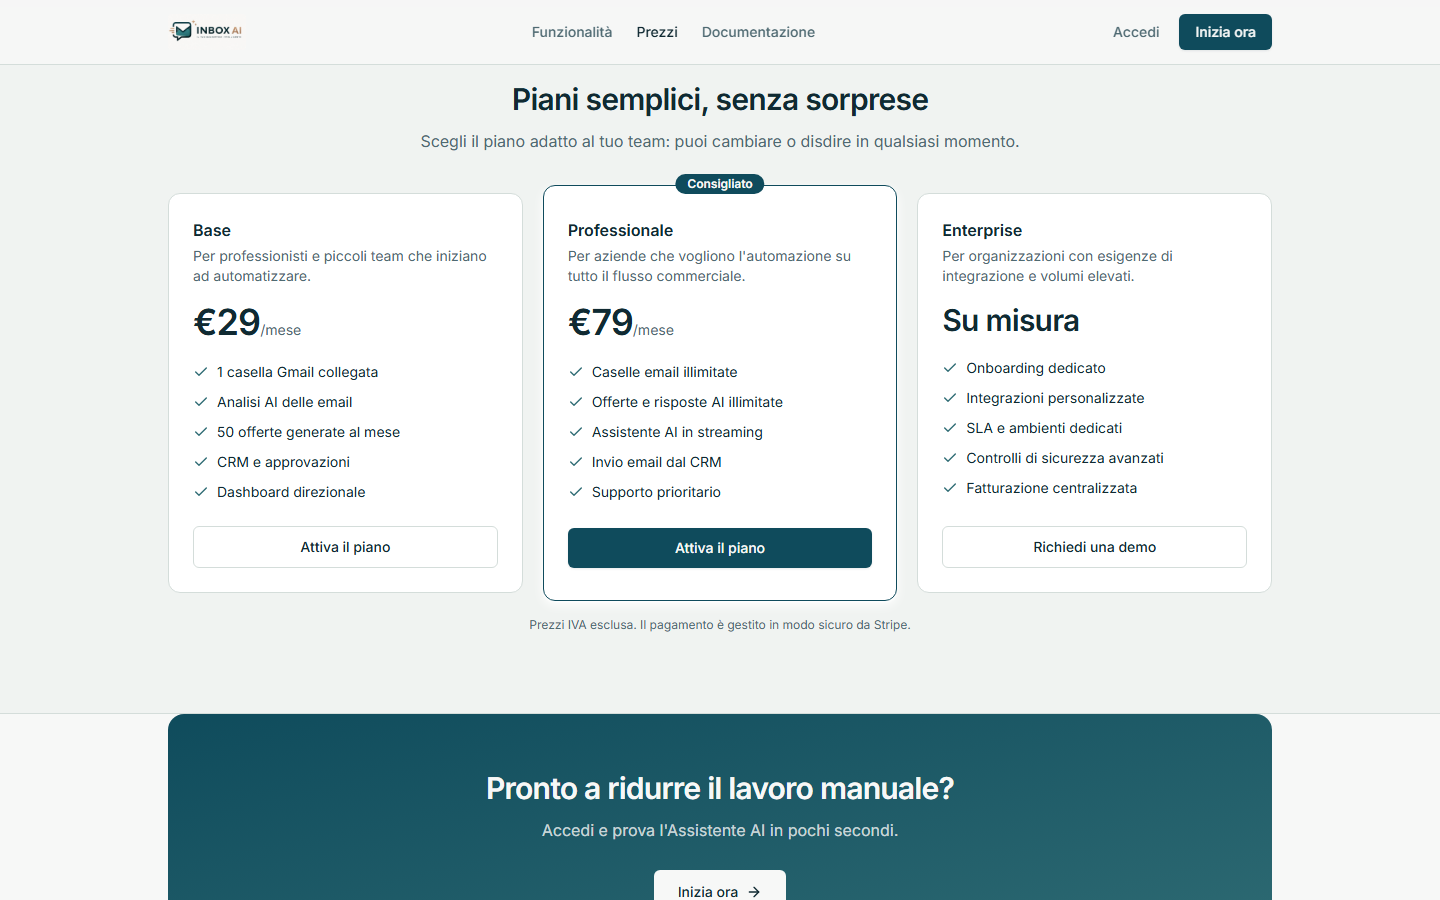
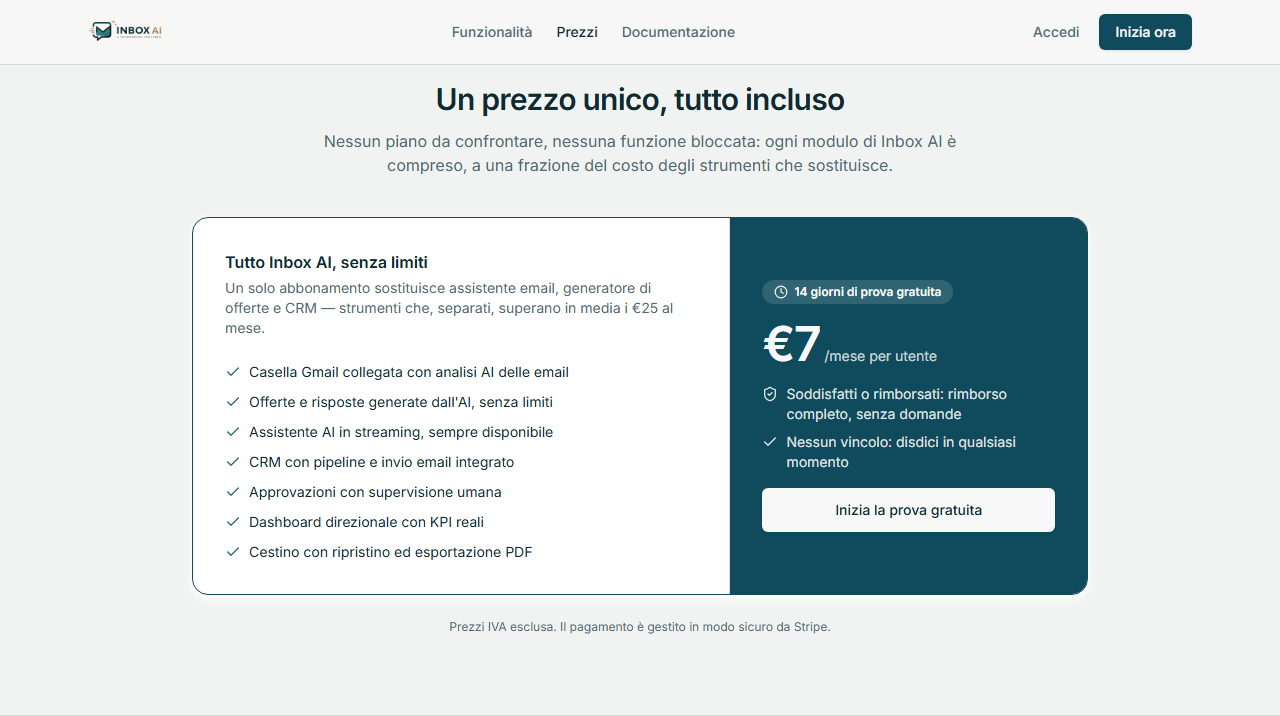
feat(billing): piano unico 7 euro/mese con 14 giorni di prova gratuita
- Landing: sezione prezzi rifatta con card unica (tutto incluso, prova
  gratuita 14 giorni, soddisfatti o rimborsati, confronto col mercato)
- Backend: checkout con piano unico e trial_period_days=14 su Stripe;
  env STRIPE_PRICE_ID al posto di STRIPE_PRICE_BASE/PRO
- README: sezione piani, tabella env e screenshot prezzi aggiornati
- Video demo rigirato con la scena della nuova sezione prezzi

diff --git a/frontend/src/pages/marketing/Landing.tsx b/frontend/src/pages/marketing/Landing.tsx
@@ -16,7 +16,6 @@ import {
 } from "lucide-react";
 import { apiFetch } from "@/lib/api";
 import { toast } from "@/components/ui/toast";
-import { cn } from "@/lib/utils";
 
 const moduli = [
   { icon: Sparkles, titolo: "Assistente AI", testo: "Chat conversazionale in tempo reale per gestire il lavoro quotidiano." },
@@ -27,52 +26,15 @@ const moduli = [
   { icon: LayoutDashboard, titolo: "Dashboard", testo: "KPI operativi e attività recenti in un colpo d'occhio." },
 ];
 
-const piani = [
-  {
-    id: "base" as const,
-    nome: "Base",
-    prezzo: "29",
-    periodo: "/mese",
-    descrizione: "Per professionisti e piccoli team che iniziano ad automatizzare.",
-    voci: [
-      "1 casella Gmail collegata",
-      "Analisi AI delle email",
-      "50 offerte generate al mese",
-      "CRM e approvazioni",
-      "Dashboard direzionale",
-    ],
-    evidenza: false,
-  },
-  {
-    id: "pro" as const,
-    nome: "Professionale",
-    prezzo: "79",
-    periodo: "/mese",
-    descrizione: "Per aziende che vogliono l'automazione su tutto il flusso commerciale.",
-    voci: [
-      "Caselle email illimitate",
-      "Offerte e risposte AI illimitate",
-      "Assistente AI in streaming",
-      "Invio email dal CRM",
-      "Supporto prioritario",
-    ],
-    evidenza: true,
-  },
-  {
-    id: "enterprise" as const,
-    nome: "Enterprise",
-    prezzo: "Su misura",
-    periodo: "",
-    descrizione: "Per organizzazioni con esigenze di integrazione e volumi elevati.",
-    voci: [
-      "Onboarding dedicato",
-      "Integrazioni personalizzate",
-      "SLA e ambienti dedicati",
-      "Controlli di sicurezza avanzati",
-      "Fatturazione centralizzata",
-    ],
-    evidenza: false,
-  },
+// Un unico piano, tutto incluso: nessuna scelta da fare, nessuna funzione bloccata.
+const incluso = [
+  "Casella Gmail collegata con analisi AI delle email",
+  "Offerte e risposte generate dall'AI, senza limiti",
+  "Assistente AI in streaming, sempre disponibile",
+  "CRM con pipeline e invio email integrato",
+  "Approvazioni con supervisione umana",
+  "Dashboard direzionale con KPI reali",
+  "Cestino con ripristino ed esportazione PDF",
 ];
 
 const vantaggi = [
@@ -84,7 +46,7 @@ const vantaggi = [
 export function Landing() {
   const location = useLocation();
   const navigate = useNavigate();
-  const [caricamento, setCaricamento] = useState<string | null>(null);
+  const [caricamento, setCaricamento] = useState(false);
 
   // Scroll morbido alle ancore (es. /#prezzi dal menu).
   useEffect(() => {
@@ -94,13 +56,13 @@ export function Landing() {
   }, [location.hash]);
 
   // Avvia il checkout: con Stripe configurato reindirizza alla pagina di
-  // pagamento; in modalità demo porta alla registrazione.
-  const attivaPiano = async (piano: "base" | "pro") => {
-    setCaricamento(piano);
+  // pagamento (con 14 giorni di prova); in modalità demo porta alla registrazione.
+  const attivaAbbonamento = async () => {
+    setCaricamento(true);
     try {
       const esito = await apiFetch<{ url?: string; demo?: boolean }>(
         "/billing/checkout",
-        { method: "POST", body: JSON.stringify({ piano }) }
+        { method: "POST", body: JSON.stringify({ piano: "unico" }) }
       );
       if (esito.url) {
         window.location.href = esito.url;
@@ -114,7 +76,7 @@ export function Landing() {
     } catch {
       toast("Impossibile avviare il pagamento. Riprova più tardi.", "errore");
     } finally {
-      setCaricamento(null);
+      setCaricamento(false);
     }
   };
 
@@ -196,84 +158,64 @@ export function Landing() {
         <div className="mx-auto w-full max-w-6xl px-4 py-20 sm:px-6">
           <div className="mb-10 text-center">
             <h2 className="text-3xl font-semibold tracking-tight">
-              Piani semplici, senza sorprese
+              Un prezzo unico, tutto incluso
             </h2>
             <p className="mx-auto mt-3 max-w-2xl text-muted-foreground">
-              Scegli il piano adatto al tuo team: puoi cambiare o disdire in
-              qualsiasi momento.
+              Nessun piano da confrontare, nessuna funzione bloccata: ogni
+              modulo di Inbox AI è compreso, a una frazione del costo degli
+              strumenti che sostituisce.
             </p>
           </div>
-          <div className="grid gap-5 md:grid-cols-3">
-            {piani.map((p) => (
-              <div
-                key={p.id}
-                className={cn(
-                  "relative flex flex-col rounded-xl border bg-card p-6",
-                  p.evidenza
-                    ? "border-primary shadow-card md:-my-2 md:py-8"
-                    : "border-border"
-                )}
+          <div className="mx-auto grid max-w-4xl overflow-hidden rounded-2xl border border-primary bg-card shadow-card md:grid-cols-5">
+            {/* Cosa è incluso */}
+            <div className="p-8 md:col-span-3">
+              <h3 className="font-semibold">Tutto Inbox AI, senza limiti</h3>
+              <p className="mt-1 text-sm text-muted-foreground">
+                Un solo abbonamento sostituisce assistente email, generatore di
+                offerte e CRM — strumenti che, separati, superano in media i
+                €25 al mese.
+              </p>
+              <ul className="mt-6 grid gap-2.5 sm:grid-cols-1">
+                {incluso.map((v) => (
+                  <li key={v} className="flex items-start gap-2 text-sm">
+                    <Check className="mt-0.5 size-4 shrink-0 text-secondary" />
+                    {v}
+                  </li>
+                ))}
+              </ul>
+            </div>
+            {/* Prezzo e prova gratuita */}
+            <div className="flex flex-col justify-center gap-4 border-t border-border bg-primary p-8 text-primary-foreground md:col-span-2 md:border-l md:border-t-0">
+              <span className="inline-flex w-fit items-center gap-1.5 rounded-full bg-primary-foreground/15 px-3 py-1 text-xs font-semibold">
+                <Clock className="size-3.5" />
+                14 giorni di prova gratuita
+              </span>
+              <p>
+                <span className="text-5xl font-semibold tracking-tight">€7</span>
+                <span className="text-sm text-primary-foreground/80">
+                  {" "}/mese per utente
+                </span>
+              </p>
+              <ul className="space-y-2 text-sm text-primary-foreground/90">
+                <li className="flex items-start gap-2">
+                  <ShieldCheck className="mt-0.5 size-4 shrink-0" />
+                  Soddisfatti o rimborsati: rimborso completo, senza domande
+                </li>
+                <li className="flex items-start gap-2">
+                  <Check className="mt-0.5 size-4 shrink-0" />
+                  Nessun vincolo: disdici in qualsiasi momento
+                </li>
+              </ul>
+              <button
+                type="button"
+                onClick={attivaAbbonamento}
+                disabled={caricamento}
+                className="inline-flex items-center justify-center gap-2 rounded-md bg-background px-5 py-3 text-sm font-medium text-foreground shadow-soft transition-colors hover:bg-surface disabled:opacity-60"
               >
-                {p.evidenza && (
-                  <span className="absolute -top-3 left-1/2 -translate-x-1/2 rounded-full bg-primary px-3 py-0.5 text-xs font-semibold text-primary-foreground">
-                    Consigliato
-                  </span>
-                )}
-                <h3 className="font-semibold">{p.nome}</h3>
-                <p className="mt-1 min-h-10 text-sm text-muted-foreground">
-                  {p.descrizione}
-                </p>
-                <p className="mt-4">
-                  {p.periodo ? (
-                    <>
-                      <span className="text-4xl font-semibold tracking-tight">
-                        €{p.prezzo}
-                      </span>
-                      <span className="text-sm text-muted-foreground">
-                        {p.periodo}
-                      </span>
-                    </>
-                  ) : (
-                    <span className="text-3xl font-semibold tracking-tight">
-                      {p.prezzo}
-                    </span>
-                  )}
-                </p>
-                <ul className="mt-5 flex-1 space-y-2.5">
-                  {p.voci.map((v) => (
-                    <li key={v} className="flex items-start gap-2 text-sm">
-                      <Check className="mt-0.5 size-4 shrink-0 text-secondary" />
-                      {v}
-                    </li>
-                  ))}
-                </ul>
-                {p.id === "enterprise" ? (
-                  <Link
-                    to="/login"
-                    className="mt-6 inline-flex items-center justify-center rounded-md border border-border bg-card px-4 py-2.5 text-sm font-medium transition-colors hover:bg-surface"
-                  >
-                    Richiedi una demo
-                  </Link>
-                ) : (
-                  <button
-                    type="button"
-                    onClick={() => attivaPiano(p.id)}
-                    disabled={caricamento !== null}
-                    className={cn(
-                      "mt-6 inline-flex items-center justify-center gap-2 rounded-md px-4 py-2.5 text-sm font-medium transition-colors disabled:opacity-60",
-                      p.evidenza
-                        ? "bg-primary text-primary-foreground shadow-soft hover:bg-primary/90"
-                        : "border border-border bg-card hover:bg-surface"
-                    )}
-                  >
-                    {caricamento === p.id && (
-                      <Loader2 className="size-4 animate-spin" />
-                    )}
-                    Attiva il piano
-                  </button>
-                )}
-              </div>
-            ))}
+                {caricamento && <Loader2 className="size-4 animate-spin" />}
+                Inizia la prova gratuita
+              </button>
+            </div>
           </div>
           <p className="mt-6 text-center text-xs text-muted-foreground">
             Prezzi IVA esclusa. Il pagamento è gestito in modo sicuro da Stripe.

diff --git a/backend/src/controllers/billing.controller.ts b/backend/src/controllers/billing.controller.ts
@@ -3,15 +3,16 @@ import { z } from "zod";
 import { env } from "../config/env.js";
 
 /**
- * Checkout degli abbonamenti tramite Stripe Checkout (pagina ospitata).
+ * Checkout dell'abbonamento tramite Stripe Checkout (pagina ospitata).
  *
- * Senza chiavi Stripe configurate risponde `{ demo: true }`: la landing mostra
- * i piani ma non avvia pagamenti. Quando `STRIPE_SECRET_KEY` e i price ID sono
+ * Piano unico (€7/mese) con 14 giorni di prova gratuita. Senza chiavi Stripe
+ * configurate risponde `{ demo: true }`: la landing mostra il prezzo ma non
+ * avvia pagamenti. Quando `STRIPE_SECRET_KEY` e `STRIPE_PRICE_ID` sono
  * impostati, crea una sessione reale e restituisce l'URL a cui reindirizzare.
  * Nessuna dipendenza: si usa l'API REST di Stripe (form-encoded) via fetch.
  */
 
-const schema = z.object({ piano: z.enum(["base", "pro"]) });
+const schema = z.object({ piano: z.literal("unico") });
 
 /** Prima origine di CLIENT_URL (può essere una lista separata da virgole). */
 function origineFrontend(): string {
@@ -23,8 +24,7 @@ export async function checkout(req: Request, res: Response) {
   if (!parsed.success) {
     return res.status(400).json({ messaggio: "Piano non valido." });
   }
-  const price =
-    parsed.data.piano === "base" ? env.STRIPE_PRICE_BASE : env.STRIPE_PRICE_PRO;
+  const price = env.STRIPE_PRICE_ID;
 
   // Modalità demo: chiavi non configurate → nessun pagamento reale.
   if (!env.STRIPE_SECRET_KEY || !price) {
@@ -36,6 +36,9 @@ export async function checkout(req: Request, res: Response) {
     mode: "subscription",
     "line_items[0][price]": price,
     "line_items[0][quantity]": "1",
+    // 14 giorni di prova gratuita gestiti da Stripe: l'addebito parte solo
+    // alla fine del periodo di prova.
+    "subscription_data[trial_period_days]": "14",
     success_url: `${base}/login?abbonamento=attivo`,
     cancel_url: `${base}/#prezzi`,
   });

diff --git a/backend/src/config/env.ts b/backend/src/config/env.ts
@@ -30,9 +30,8 @@ const schema = z.object({
   RENDER_EXTERNAL_URL: z.string().optional(),
   // Pagamenti Stripe (opzionali): senza chiavi il checkout resta in modalità demo.
   STRIPE_SECRET_KEY: z.string().optional(),
-  // Price ID degli abbonamenti (dashboard Stripe → Prodotti), es. "price_...".
-  STRIPE_PRICE_BASE: z.string().optional(),
-  STRIPE_PRICE_PRO: z.string().optional(),
+  // Price ID del piano unico (dashboard Stripe → Prodotti), es. "price_...".
+  STRIPE_PRICE_ID: z.string().optional(),
   // Firma dei webhook Stripe (per la futura gestione degli eventi di abbonamento).
   STRIPE_WEBHOOK_SECRET: z.string().optional(),
 });

diff --git a/README.md b/README.md
@@ -51,8 +51,9 @@ Dentro l'app, una **ricerca rapida** (Ctrl/⌘K), un **centro notifiche** e noti
 
 ![Inbox AI in azione](docs/walkthrough.gif)
 
-> Dalla landing all'accesso, alla **dashboard direzionale** con filtro per anno e
-> grafici in tempo reale, all'**automazione AI** (analisi email → offerta generata →
+> Dalla landing con il **piano unico** (€7/mese, 14 giorni di prova gratuita)
+> all'accesso, alla **dashboard direzionale** con filtro per anno e grafici in
+> tempo reale, all'**automazione AI** (analisi email → offerta generata →
 > creazione), al **CRM**, alle **offerte** e all'**assistente AI in streaming**.
 
 ### Dashboard direzionale
@@ -85,18 +86,21 @@ crei un'opportunità nel CRM.
 
 ## Piani e pagamenti (Stripe)
 
-La landing espone tre piani di abbonamento (**Base**, **Professionale**,
-**Enterprise**) con checkout gestito da **Stripe Checkout** (pagina di pagamento
-ospitata — nessun dato di carta transita dal backend).
+La landing espone un **piano unico da €7/mese per utente** — tutto incluso,
+volutamente sotto la media di mercato degli strumenti che sostituisce (€25+/mese)
+— con **14 giorni di prova gratuita** e garanzia soddisfatti o rimborsati. Il
+checkout è gestito da **Stripe Checkout** (pagina di pagamento ospitata — nessun
+dato di carta transita dal backend) e la prova è applicata da Stripe
+(`trial_period_days=14`: l'addebito parte solo alla fine del periodo di prova).
 
 ![Piani di abbonamento](docs/screenshots/prezzi.png)
 
 - **Modalità demo (default):** senza chiavi Stripe configurate l'endpoint
   `POST /api/billing/checkout` risponde `{ "demo": true }` e la landing invita
   alla registrazione senza avviare pagamenti.
-- **Attivazione reale:** impostare `STRIPE_SECRET_KEY` e i price ID
-  (`STRIPE_PRICE_BASE`, `STRIPE_PRICE_PRO`) creati nella dashboard Stripe
-  (Prodotti → prezzo ricorrente). Da quel momento il pulsante "Attiva il piano"
+- **Attivazione reale:** impostare `STRIPE_SECRET_KEY` e il price ID
+  (`STRIPE_PRICE_ID`) creato nella dashboard Stripe (Prodotti → prezzo
+  ricorrente €7/mese). Da quel momento il pulsante "Inizia la prova gratuita"
   reindirizza alla pagina di pagamento Stripe (integrazione via API REST,
   nessuna dipendenza aggiuntiva).
 - `STRIPE_WEBHOOK_SECRET` è già previsto in configurazione per la futura
@@ -193,8 +197,7 @@ Un unico file `.env` nella radice del progetto serve sia il frontend (Vite) sia 
 | `GMAIL_APP_USER`        | Backend  | Account Gmail per le email di sistema (reset password). |
 | `GMAIL_APP_PASSWORD`    | Backend  | App password Gmail per l'SMTP. |
 | `STRIPE_SECRET_KEY`     | Backend  | Chiave segreta Stripe. Assente = checkout in modalità demo. |
-| `STRIPE_PRICE_BASE`     | Backend  | Price ID Stripe del piano Base (`price_...`). |
-| `STRIPE_PRICE_PRO`      | Backend  | Price ID Stripe del piano Professionale (`price_...`). |
+| `STRIPE_PRICE_ID`       | Backend  | Price ID Stripe del piano unico €7/mese (`price_...`). |
 | `STRIPE_WEBHOOK_SECRET` | Backend  | Firma dei webhook Stripe (gestione eventi futura). |
 | `AI_PROVIDER`           | Backend  | Provider AI astratto: `default` (euristico) o `groq`. |
 | `AI_API_KEY`            | Backend  | Chiave del provider AI (mai esposta al client). |